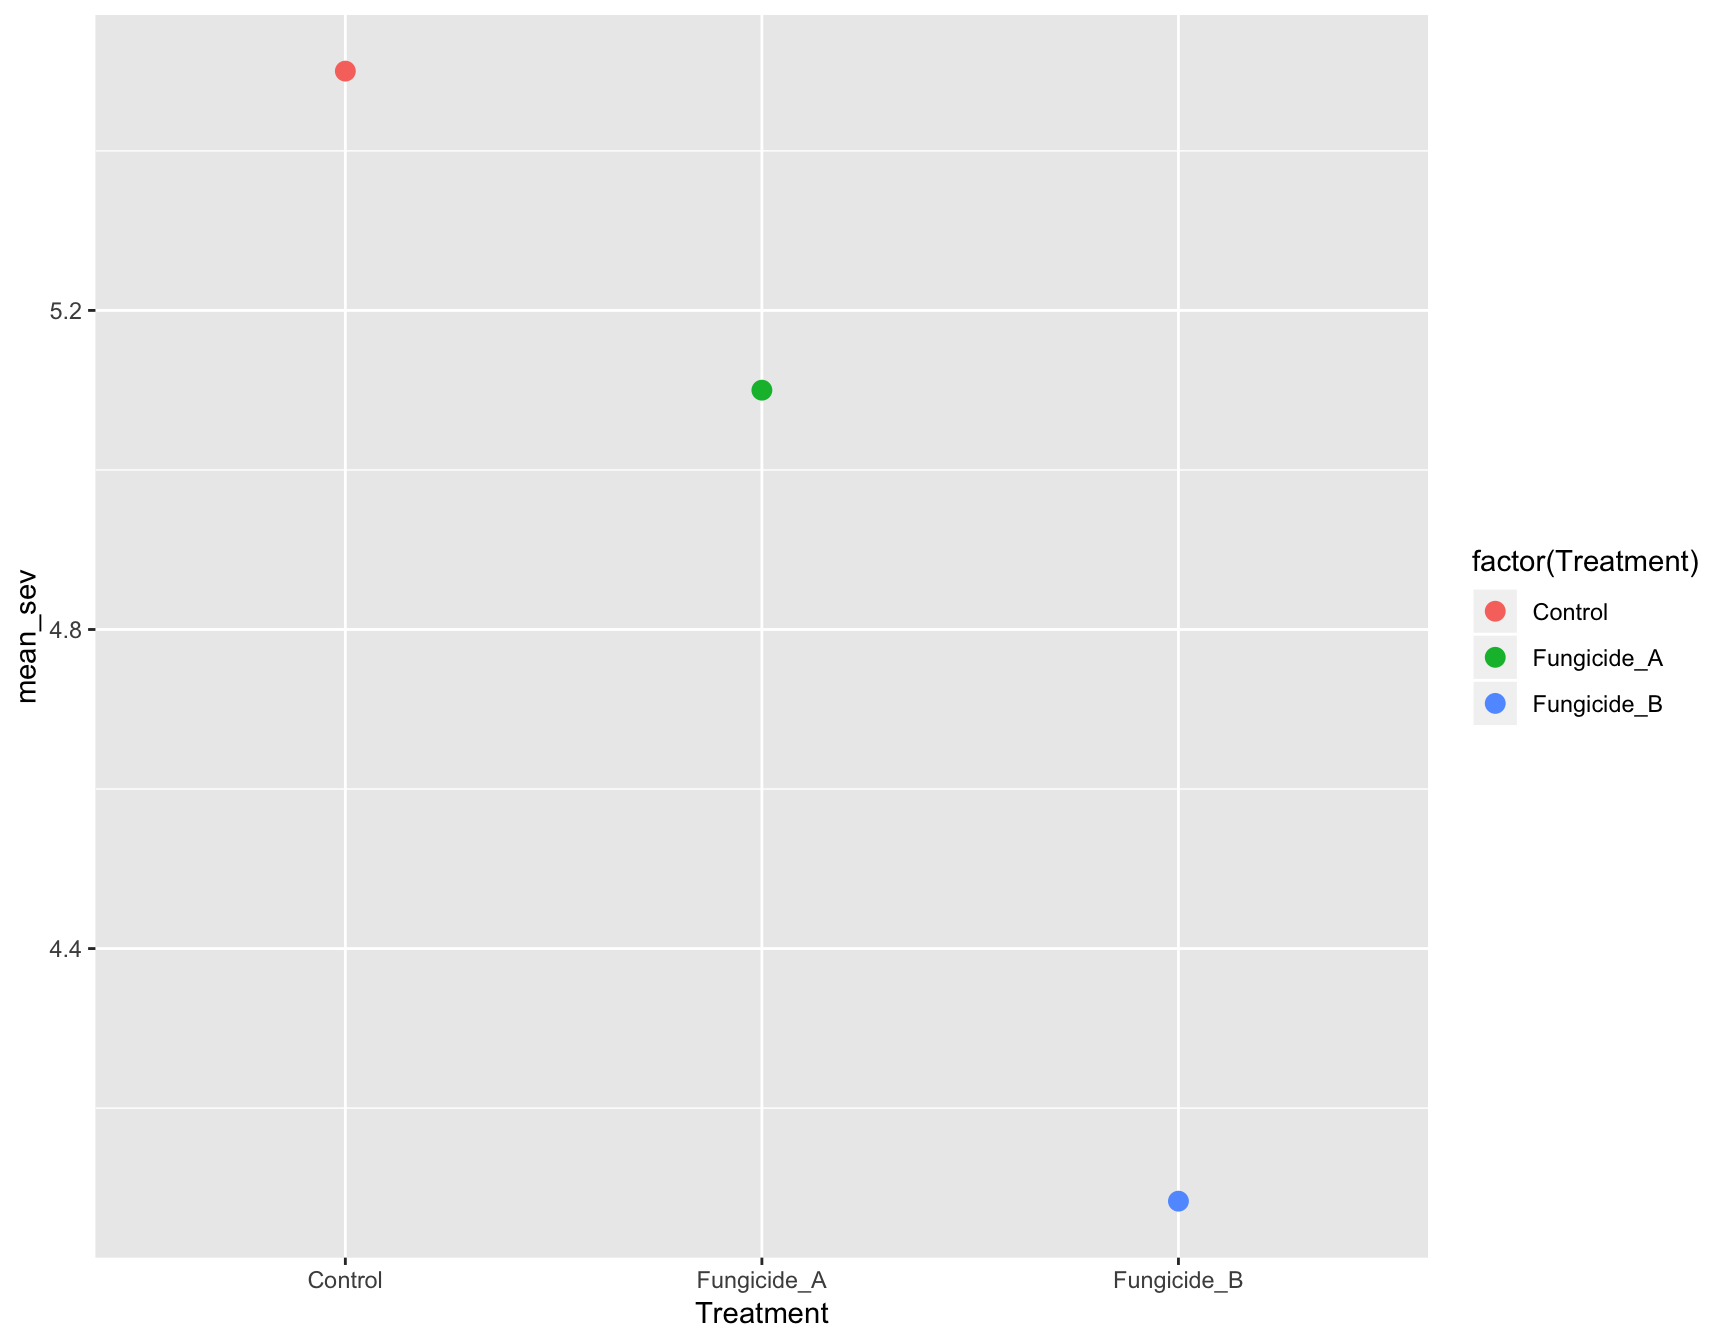
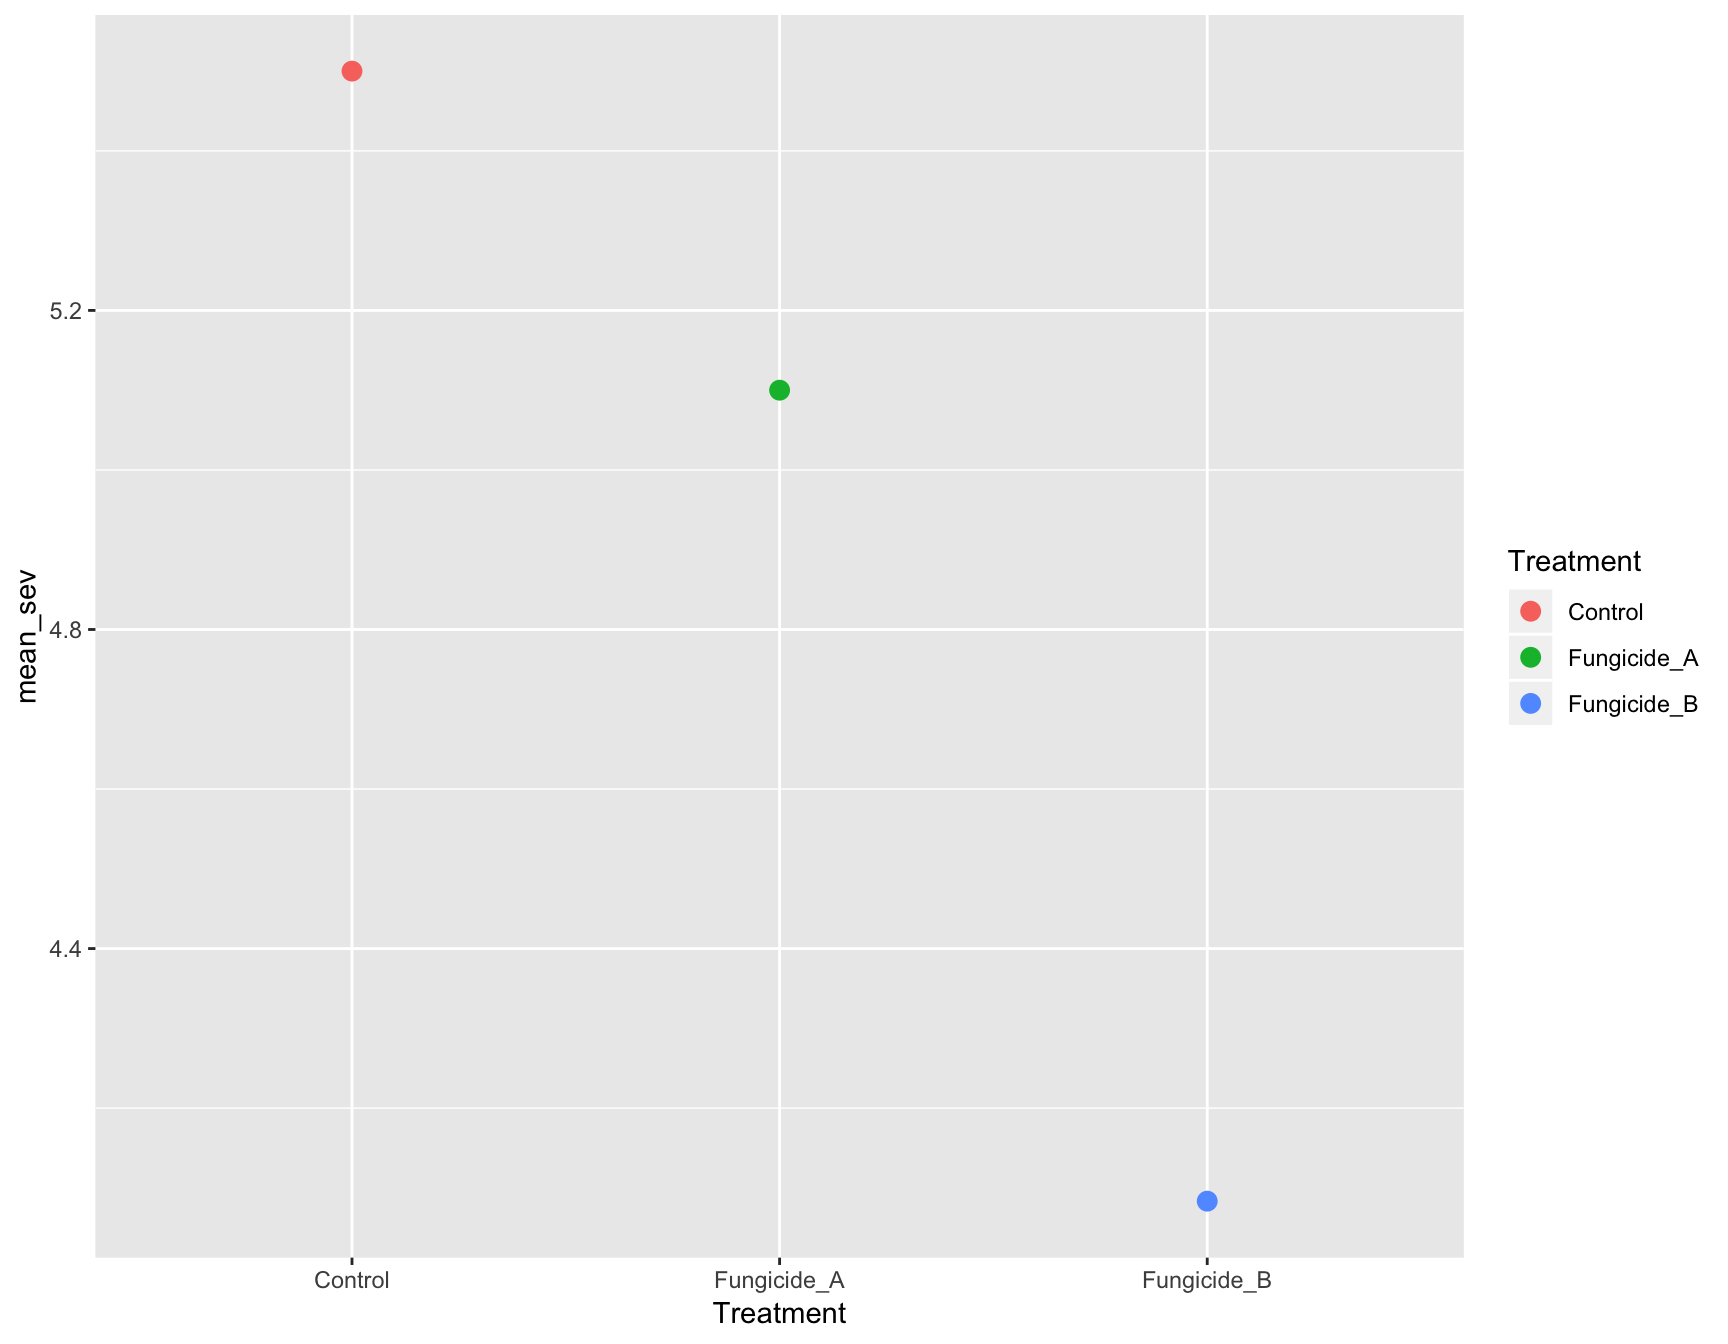
Fixing line wraps and typos

diff --git a/docs/Part2-Analysis.html b/docs/Part2-Analysis.html
@@ -348,16 +348,12 @@ div.tocify {
 <p>A working directory is the folder on your computer where you are currently working. You can find out your current working directory by typing <code>getwd()</code></p>
 <pre class="r"><code>&gt; getwd()</code></pre>
 <pre><code>[1] &quot;/Users/nikitagambhir/Desktop/IntroR_2019&quot;</code></pre>
-<p>If you’ve downloaded and un-zipped this directory to your desktop, you might see something like <code>/Users/&lt;yourname&gt;/Desktop/IntroR_2019</code>. This is the<br />
-default place where R will begin reading and writing files. For example, you<br />
-can use the function <code>list.files()</code> to view the files in your current working directory. These are the same files that we downloaded earlier. If you’re using Rstudio, you can compare the file list with the “Files” tab in the bottom right panel.</p>
+<p>If you’ve downloaded and un-zipped this directory to your desktop, you might see something like <code>/Users/&lt;yourname&gt;/Desktop/IntroR_2019</code>. This is the default place where R will begin reading and writing files. For example, you can use the function <code>list.files()</code> to view the files in your current working directory. These are the same files that we downloaded earlier. If you’re using Rstudio, you can compare the file list with the “Files” tab in the bottom right panel.</p>
 <p>In order to use <code>list.files()</code>, we should provide it with a file path. We can provide it a “.”, which means “here” to most computer programs.</p>
 <pre class="r"><code>&gt; list.files(&quot;.&quot;)</code></pre>
-<pre><code> [1] &quot;data&quot;                  &quot;docs&quot;                 
- [3] &quot;IntroR_2019.Rproj&quot;     &quot;LICENSE&quot;              
- [5] &quot;Makefile&quot;              &quot;Part1-Introduction.R&quot; 
- [7] &quot;Part2-Analysis.R&quot;      &quot;Part3-Visualization.R&quot;
- [9] &quot;README.md&quot;             &quot;slides&quot;               </code></pre>
+<pre><code>[1] &quot;data&quot;                  &quot;docs&quot;                  &quot;IntroR_2019.Rproj&quot;    
+[4] &quot;LICENSE&quot;               &quot;Makefile&quot;              &quot;Part1-Introduction.R&quot; 
+[7] &quot;Part2-Analysis.R&quot;      &quot;Part3-Visualization.R&quot; &quot;README.md&quot;            </code></pre>
 <p>You can see that the first entry in here is “data”. This is where we’ve placed the field_data example data.</p>
 <pre class="r"><code>&gt; list.files(&quot;data&quot;)</code></pre>
 <pre><code>[1] &quot;fungicide_dat.csv&quot; &quot;README.md&quot;        </code></pre>
@@ -435,7 +431,7 @@ can use the function <code>list.files()</code> to view the files in your current
 16 Fungicide_B            175.88      4.0
 17 Fungicide_B            175.68      4.1
 18 Fungicide_B            175.95      4.2</code></pre>
-<p>Now that we have these elements, we can read the data into an object, which we can call “field_data”. Once we do this, we can check the dimensions to make sure that we have all of the data.</p>
+<p>Now that we have these elements, we can read the data into an object, which we can call “field_data”. Once we do this, we can check the no. of rows and columns to make sure that we have all of the data.</p>
 <pre class="r"><code>&gt; field_data &lt;- read.csv(&quot;data/fungicide_dat.csv&quot;)
 &gt; nrow(field_data)</code></pre>
 <pre><code>[1] 18</code></pre>
@@ -486,7 +482,7 @@ can use the function <code>list.files()</code> to view the files in your current
 <pre class="r"><code>&gt; install.packages(&quot;dplyr&quot;, repos = &quot;http://cran.us.r-project.org&quot;)</code></pre>
 <pre><code>
 The downloaded binary packages are in
-    /var/folders/y1/z82xd0b501193md_9_d3vs9r0000gn/T//Rtmpy46D3r/downloaded_packages</code></pre>
+    /var/folders/y1/z82xd0b501193md_9_d3vs9r0000gn/T//Rtmp48cDRn/downloaded_packages</code></pre>
 <p>To load this package, we can use the function <code>library()</code>.</p>
 <pre class="r"><code>&gt; library(&quot;dplyr&quot;)</code></pre>
 <pre><code>Warning: package &#39;dplyr&#39; was built under R version 3.5.2</code></pre>
@@ -561,7 +557,7 @@ Attaching package: &#39;dplyr&#39;</code></pre>
 </div>
 <div id="c-find-the-mean-yield" class="section level3">
 <h3>c) Find the mean yield</h3>
-<p>If we want to summarise multiple values to a single value, for example, mean, we can use the function <code>summarize()</code>.</p>
+<p>If we want to summarize multiple values to a single value, for example, mean, we can use the function <code>summarize()</code>.</p>
 <pre class="r"><code>&gt; summarize(yield_kg_ha, Mean_yield = mean(Yield_kg_per_ha))</code></pre>
 <pre><code>  Mean_yield
 1    10954.9</code></pre>
@@ -773,7 +769,8 @@ $Treatment
 Fungicide_A-Control     0.030000 -0.3557208 0.4157208 0.977785
 Fungicide_B-Control     1.933333  1.5476125 2.3190542 0.000000
 Fungicide_B-Fungicide_A 1.903333  1.5176125 2.2890542 0.000000</code></pre>
-<p>There is no difference between ‘Fungicide_A’ and ‘Control’ as the p-value is 0.978 (&gt;0.05). Let’s do similar analysis using the Severity data</p>
+<p>There is no difference between ‘Fungicide_A’ and ‘Control’ as the p-value is 0.978 (&gt;0.05).</p>
+<p>Let’s do a similar analysis using the Severity data.</p>
 <pre class="r"><code>&gt; fit_severity &lt;- aov(formula=Severity ~ Treatment, data=field_data)
 &gt; summary(fit_severity) # p-value is less than 0.05, so let&#39;s do Tukey&#39;s post-hoc test</code></pre>
 <pre><code>            Df Sum Sq Mean Sq F value  Pr(&gt;F)    

diff --git a/docs/Part1-Introduction.html b/docs/Part1-Introduction.html
@@ -393,7 +393,7 @@ div.tocify {
 <p>Now we can execute our calculation using objects instead of numbers. Try it!</p>
 <pre class="r"><code>&gt; (a+b)/c</code></pre>
 <pre><code>[1] 2</code></pre>
-<p>Avoid creating object names that start with a numnber because R will look at the first character and try to interpret the entire name as a mathematical term. Try this:</p>
+<p>Avoid creating object names that start with a number because R will look at the first character and try to interpret the entire name as a mathematical term. Try this:</p>
 <pre class="r"><code>&gt; 2foxes &lt;- 1   </code></pre>
 <pre><code>Error: &lt;text&gt;:1:2: unexpected symbol
 1: 2foxes
@@ -434,9 +434,7 @@ logical operation (<code>&gt;</code>). So, we don’t need to use <code>(b+c) &g
 <p>Is either <code>a</code> or <code>b</code> greater than c?</p>
 <pre class="r"><code>&gt; a | b &gt; c </code></pre>
 <pre><code>[1] TRUE</code></pre>
-<p>The examples above dealt with numeric values assigned to objects. We can also store character data in objects. We need to place the character data (words,<br />
-phrases, etc.) inside quotation marks, otherwise R will try to interpret the<br />
-character data as an object and will produce an error.</p>
+<p>The examples above dealt with numeric values assigned to objects. We can also store character data in objects. We need to place the character data (words, phrases, etc.) inside quotation marks, otherwise R will try to interpret the character data as an object and will produce an error.</p>
 <p>Let’s use my name for this exercise. Let’s create two objects, one for my first name and another for my last name.</p>
 <pre class="r"><code>&gt; first.name &lt;- &quot;Sydney&quot;
 &gt; last.name &lt;- &#39;Everhart&#39;  # Single quotes work too!</code></pre>
@@ -818,14 +816,15 @@ except for the 31st row and all the columns of that row.</p>
 <pre><code> [1] 3 3 3 3 3 3 3 3 3 3 3 3 3 3 3 3 3 3 3 3 3 3 3 3 3 3 3 3 3 3 3 4 4 4 4
 [36] 4 4 4 4 4 4 4 4 4 4 4 4 4 4 4 4 4 4 4 4 4 4 4 4 4 4</code></pre>
 <p>We want to specify only the cells in this list that are 4. We know that rows 1 to 30 contain 4’s and the rest contain 3’s, which means we can inspect those rows in the object spring:</p>
-<pre class="r"><code>&gt; spring[1:30, &quot;month&quot;]     # April</code></pre>
-<pre><code> [1] 3 3 3 3 3 3 3 3 3 3 3 3 3 3 3 3 3 3 3 3 3 3 3 3 3 3 3 3 3 3</code></pre>
-<pre class="r"><code>&gt; spring[-c(1:31), &quot;month&quot;] # March</code></pre>
+<pre class="r"><code>&gt; spring[1:31, &quot;month&quot;]     # March</code></pre>
+<pre><code> [1] 3 3 3 3 3 3 3 3 3 3 3 3 3 3 3 3 3 3 3 3 3 3 3 3 3 3 3 3 3 3 3</code></pre>
+<pre class="r"><code>&gt; spring[-c(1:31), &quot;month&quot;] # April</code></pre>
 <pre><code> [1] 4 4 4 4 4 4 4 4 4 4 4 4 4 4 4 4 4 4 4 4 4 4 4 4 4 4 4 4 4 4</code></pre>
 <blockquote>
-<p>Notice that we used <code>-c(1:31)</code>, what do you think this is doing? Why would this give us the values for the month of March? We can use the <code>ifelse()</code> function to replace the values in our column. How do we use this function? A good first step to figuring out how you can use a function is to look at its help page. The way you can do that is by typing<br />
-either <code>help(&quot;function_name&quot;)</code> or <code>?function_name</code>.</p>
+<p>Notice that we used <code>-c(1:31)</code>, what do you think this is doing? Why would this give us the values for the month of April?</p>
 </blockquote>
+<p>We can use the <code>ifelse()</code> function to replace the values in our column. How do we use this function? A good first step to figuring out how you can use a function is to look at its help page. The way you can do that is by typing<br />
+either <code>help(&quot;function_name&quot;)</code> or <code>?function_name</code>.</p>
 <pre class="r"><code>&gt; ?ifelse</code></pre>
 </div>
 <div id="exercise-4-type-ifelse-and-answer-these-three-questions" class="section level3">

diff --git a/docs/Part3-Visualization.html b/docs/Part3-Visualization.html
@@ -363,7 +363,7 @@ div.tocify {
 <pre class="r"><code>&gt; install.packages(&quot;ggplot2&quot;, repos = &quot;http://cran.us.r-project.org&quot;)</code></pre>
 <pre><code>
 The downloaded binary packages are in
-    /var/folders/y1/z82xd0b501193md_9_d3vs9r0000gn/T//Rtmpum6kKT/downloaded_packages</code></pre>
+    /var/folders/y1/z82xd0b501193md_9_d3vs9r0000gn/T//Rtmpg3g0Hl/downloaded_packages</code></pre>
 <pre class="r"><code>&gt; library(&quot;ggplot2&quot;)</code></pre>
 <p>Data for plotting with ggplot2 must be stored in a data frame</p>
 <pre class="r"><code>&gt; fungicide &lt;- read.csv(&quot;data/fungicide_dat.csv&quot;) # read.csv automatically outputs a data frame</code></pre>
@@ -414,8 +414,7 @@ The downloaded binary packages are in
 <pre class="r"><code>&gt; (yield.plot &lt;- yield.plot + 
 +     geom_boxplot())</code></pre>
 <p><img src="Part3-Visualization_files/figure-html/unnamed-chunk-5-1.png" width="100%" style="display: block; margin: auto;" /></p>
-<p>If we want to change the color of the boxplots from white (default) to orange,<br />
-we can do this by adding <code>geom_boxplot(fill = &quot;orange&quot;)</code>.</p>
+<p>If we want to change the color of the boxplots from white (default) to orange, we can do this by adding <code>geom_boxplot(fill = &quot;orange&quot;)</code>.</p>
 <pre class="r"><code>&gt; (yield.plot &lt;- yield.plot + 
 +     geom_boxplot(fill = &quot;orange&quot;))</code></pre>
 <p><img src="Part3-Visualization_files/figure-html/unnamed-chunk-6-1.png" width="100%" style="display: block; margin: auto;" /></p>
@@ -588,7 +587,7 @@ Attaching package: &#39;dplyr&#39;</code></pre>
 <pre class="r"><code>&gt; install.packages(&quot;plotrix&quot;, repos = &quot;http://cran.us.r-project.org&quot;)</code></pre>
 <pre><code>
 The downloaded binary packages are in
-    /var/folders/y1/z82xd0b501193md_9_d3vs9r0000gn/T//Rtmpum6kKT/downloaded_packages</code></pre>
+    /var/folders/y1/z82xd0b501193md_9_d3vs9r0000gn/T//Rtmpg3g0Hl/downloaded_packages</code></pre>
 <pre class="r"><code>&gt; library(&quot;plotrix&quot;)
 &gt; 
 &gt; fungicide_m_se &lt;- fungicide %&gt;%
@@ -617,13 +616,13 @@ The downloaded binary packages are in
 <div id="point-plot-with-standard-errors" class="section level3">
 <h3>Point plot with standard errors</h3>
 <pre class="r"><code>&gt; (m_se_plot_point &lt;- m_se_plot + 
-+     geom_point(aes(color = factor(Treatment)),
++     geom_point(aes(color = Treatment),
 +                size = 3))</code></pre>
 <p><img src="Part3-Visualization_files/figure-html/unnamed-chunk-26-1.png" width="100%" style="display: block; margin: auto;" /></p>
 <pre class="r"><code>&gt; (m_se_plot_point &lt;- m_se_plot_point + 
 +     geom_errorbar(aes(ymin = mean_sev - se_sev,
 +                       ymax = mean_sev + se_sev,
-+                       color = factor(Treatment)),
++                       color = Treatment),
 +                   width = 0.1))</code></pre>
 <p><img src="Part3-Visualization_files/figure-html/unnamed-chunk-26-2.png" width="100%" style="display: block; margin: auto;" /></p>
 <p>You can follow the same steps that we followed for <code>yield.plot</code> to transform these plots to publication quality.</p>

diff --git a/docs/installation.html b/docs/installation.html
@@ -378,7 +378,7 @@ div.tocify {
 <div id="installing-packages" class="section level2">
 <h2>Installing Packages</h2>
 <p>To install <a href="https://dplyr.tidyverse.org">dplyr</a> and <a href="https://ggplot2.tidyverse.org">ggplot2</a> to your system, open R and type:</p>
-<pre class="r"><code>install.packages(c(&quot;dplyr&quot;, &quot;ggplot2&quot;), repos = &quot;https://cran.rstudio.com&quot;)</code></pre>
+<pre class="r"><code>install.packages(c(&quot;dplyr&quot;, &quot;ggplot2&quot;, &quot;plotrix&quot;), repos = &quot;https://cran.rstudio.com&quot;)</code></pre>
 </div>
 
 <br>
